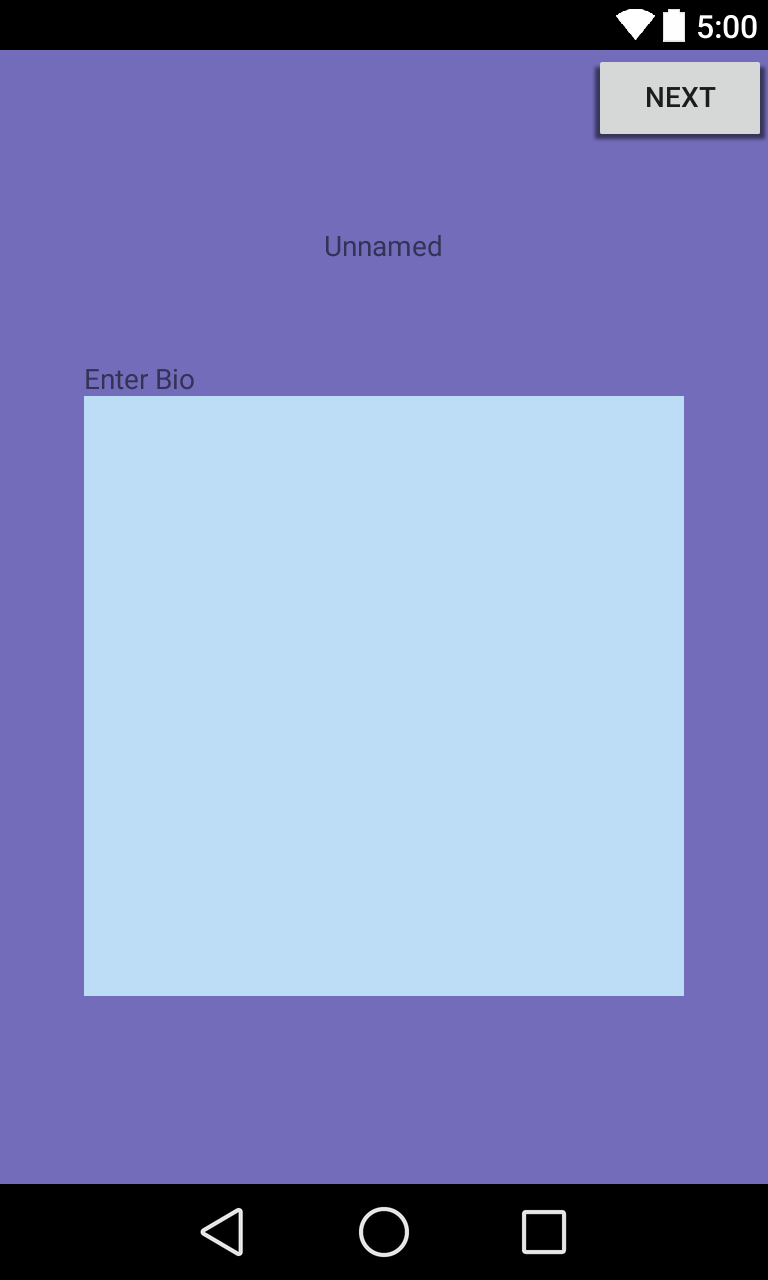
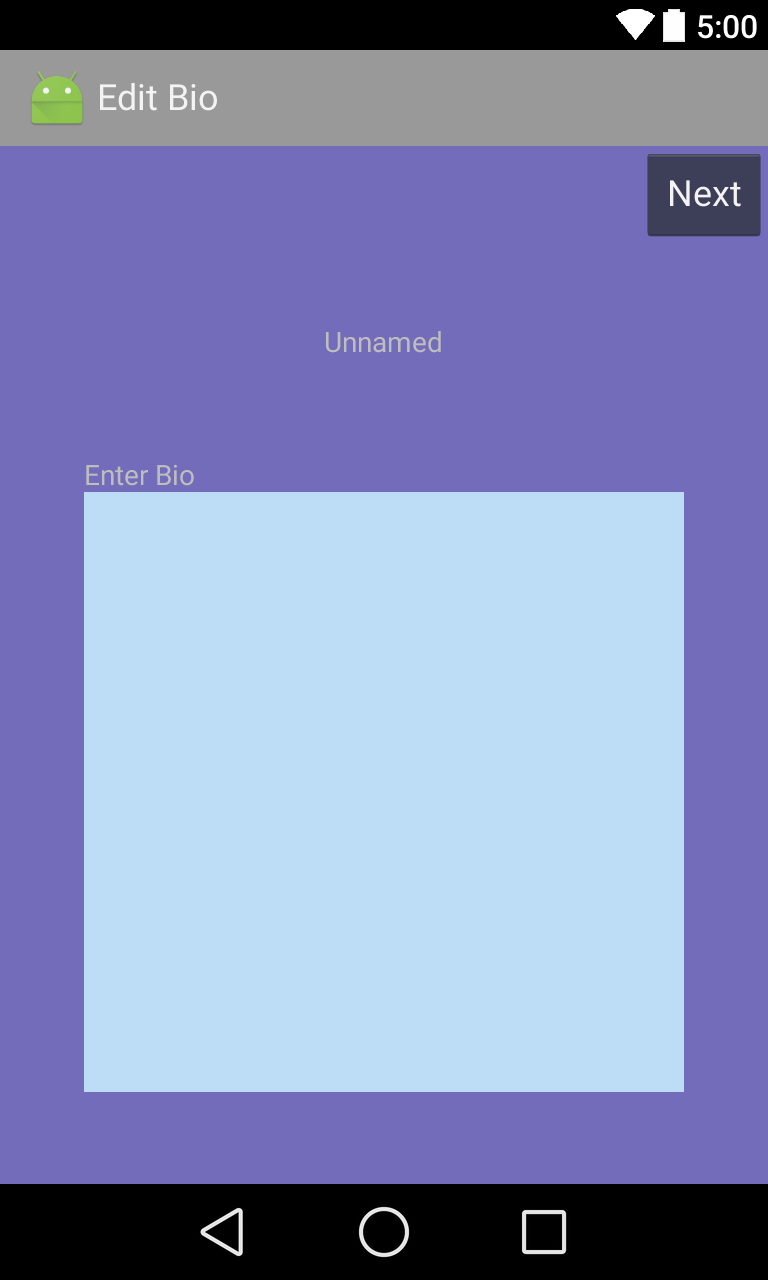
Action Bar keys implemented

diff --git a/app/src/main/java/slickstring/myapplication/Edit_Bio.java b/app/src/main/java/slickstring/myapplication/Edit_Bio.java
@@ -1,160 +1,50 @@
-package slickstring.myapplication;
 
-import slickstring.myapplication.util.SystemUiHider;
+    package slickstring.myapplication;
 
-import android.annotation.TargetApi;
-import android.app.Activity;
-import android.os.Build;
-import android.os.Bundle;
-import android.os.Handler;
-import android.view.MotionEvent;
-import android.view.View;
-
-
-/**
- * An example full-screen activity that shows and hides the system UI (i.e.
- * status bar and navigation/system bar) with user interaction.
- *
- * @see SystemUiHider
- */
-public class Edit_Bio extends Activity {
-    /**
-     * Whether or not the system UI should be auto-hidden after
-     * {@link #AUTO_HIDE_DELAY_MILLIS} milliseconds.
-     */
-    private static final boolean AUTO_HIDE = true;
-
-    /**
-     * If {@link #AUTO_HIDE} is set, the number of milliseconds to wait after
-     * user interaction before hiding the system UI.
-     */
-    private static final int AUTO_HIDE_DELAY_MILLIS = 3000;
-
-    /**
-     * If set, will toggle the system UI visibility upon interaction. Otherwise,
-     * will show the system UI visibility upon interaction.
-     */
-    private static final boolean TOGGLE_ON_CLICK = true;
-
-    /**
-     * The flags to pass to {@link SystemUiHider#getInstance}.
-     */
-    private static final int HIDER_FLAGS = SystemUiHider.FLAG_HIDE_NAVIGATION;
-
-    /**
-     * The instance of the {@link SystemUiHider} for this activity.
-     */
-    private SystemUiHider mSystemUiHider;
-
-    @Override
-    protected void onCreate(Bundle savedInstanceState) {
-        super.onCreate(savedInstanceState);
-
-        setContentView(R.layout.activity_edit__bio);
-
-        final View controlsView = findViewById(R.id.fullscreen_content_controls);
-        final View contentView = findViewById(R.id.fullscreen_content);
-
-        // Set up an instance of SystemUiHider to control the system UI for
-        // this activity.
-        mSystemUiHider = SystemUiHider.getInstance(this, contentView, HIDER_FLAGS);
-        mSystemUiHider.setup();
-        mSystemUiHider
-                .setOnVisibilityChangeListener(new SystemUiHider.OnVisibilityChangeListener() {
-                    // Cached values.
-                    int mControlsHeight;
-                    int mShortAnimTime;
-
-                    @Override
-                    @TargetApi(Build.VERSION_CODES.HONEYCOMB_MR2)
-                    public void onVisibilityChange(boolean visible) {
-                        if (Build.VERSION.SDK_INT >= Build.VERSION_CODES.HONEYCOMB_MR2) {
-                            // If the ViewPropertyAnimator API is available
-                            // (Honeycomb MR2 and later), use it to animate the
-                            // in-layout UI controls at the bottom of the
-                            // screen.
-                            if (mControlsHeight == 0) {
-                                mControlsHeight = controlsView.getHeight();
-                            }
-                            if (mShortAnimTime == 0) {
-                                mShortAnimTime = getResources().getInteger(
-                                        android.R.integer.config_shortAnimTime);
-                            }
-                            controlsView.animate()
-                                    .translationY(visible ? 0 : mControlsHeight)
-                                    .setDuration(mShortAnimTime);
-                        } else {
-                            // If the ViewPropertyAnimator APIs aren't
-                            // available, simply show or hide the in-layout UI
-                            // controls.
-                            controlsView.setVisibility(visible ? View.VISIBLE : View.GONE);
-                        }
-
-                        if (visible && AUTO_HIDE) {
-                            // Schedule a hide().
-                            delayedHide(AUTO_HIDE_DELAY_MILLIS);
-                        }
-                    }
-                });
-
-        // Set up the user interaction to manually show or hide the system UI.
-        contentView.setOnClickListener(new View.OnClickListener() {
-            @Override
-            public void onClick(View view) {
-                if (TOGGLE_ON_CLICK) {
-                    mSystemUiHider.toggle();
-                } else {
-                    mSystemUiHider.show();
-                }
-            }
-        });
-
-        // Upon interacting with UI controls, delay any scheduled hide()
-        // operations to prevent the jarring behavior of controls going away
-        // while interacting with the UI.
-        findViewById(R.id.dummy_button).setOnTouchListener(mDelayHideTouchListener);
-    }
-
-    @Override
-    protected void onPostCreate(Bundle savedInstanceState) {
-        super.onPostCreate(savedInstanceState);
-
-        // Trigger the initial hide() shortly after the activity has been
-        // created, to briefly hint to the user that UI controls
-        // are available.
-        delayedHide(100);
-    }
+    import android.app.Activity;
+    import android.content.Intent;
+    import android.support.v7.app.ActionBarActivity;
+    import android.os.Bundle;
+    import android.view.Menu;
+    import android.view.MenuItem;
+    import android.view.View;
+    import android.widget.EditText;
 
 
-    /**
-     * Touch listener to use for in-layout UI controls to delay hiding the
-     * system UI. This is to prevent the jarring behavior of controls going away
-     * while interacting with activity UI.
-     */
-    View.OnTouchListener mDelayHideTouchListener = new View.OnTouchListener() {
+    public class edit_bio extends Activity {
+
+
         @Override
-        public boolean onTouch(View view, MotionEvent motionEvent) {
-            if (AUTO_HIDE) {
-                delayedHide(AUTO_HIDE_DELAY_MILLIS);
-            }
-            return false;
+        protected void onCreate(Bundle savedInstanceState) {
+            super.onCreate(savedInstanceState);
+            setContentView(R.layout.activity_edit__bio);
         }
-    };
 
-    Handler mHideHandler = new Handler();
-    Runnable mHideRunnable = new Runnable() {
+
         @Override
-        public void run() {
-            mSystemUiHider.hide();
+        public boolean onCreateOptionsMenu(Menu menu) {
+            // Inflate the menu; this adds items to the action bar if it is present.
+            getMenuInflater().inflate(R.menu.menu_edit_bio, menu);
+            return true;
         }
-    };
 
-    /**
-     * Schedules a call to hide() in [delay] milliseconds, canceling any
-     * previously scheduled calls.
-     */
-    private void delayedHide(int delayMillis) {
-        mHideHandler.removeCallbacks(mHideRunnable);
-        mHideHandler.postDelayed(mHideRunnable, delayMillis);
-    }
+        @Override
+        public boolean onOptionsItemSelected(MenuItem item) {
+            // Handle action bar item clicks here. The action bar will
+            // automatically handle clicks on the Home/Up button, so long
+            // as you specify a parent activity in AndroidManifest.xml.
+            int id = item.getItemId();
+
+            switch (item.getItemId()) {
+                case R.id.action_save:
+                    saveProfile();
+            }
+
+            return super.onOptionsItemSelected(item);
+        }
+
+        public void saveProfile(){
+//            startActivity( new Intent(this, edit_bio.class));
+        }
+
 }

diff --git a/app/src/main/java/slickstring/myapplication/role_select.java b/app/src/main/java/slickstring/myapplication/role_select.java
@@ -1,5 +1,6 @@
 package slickstring.myapplication;
 
+import android.content.Intent;
 import android.support.v7.app.ActionBarActivity;
 import android.os.Bundle;
 import android.view.Menu;
@@ -22,18 +23,22 @@ public class role_select extends ActionBarActivity {
         return true;
     }
 
-    @Override
-    public boolean onOptionsItemSelected(MenuItem item) {
-        // Handle action bar item clicks here. The action bar will
-        // automatically handle clicks on the Home/Up button, so long
-        // as you specify a parent activity in AndroidManifest.xml.
-        int id = item.getItemId();
+        @Override
+        public boolean onOptionsItemSelected(MenuItem item) {
+            // Handle action bar item clicks here. The action bar will
+            // automatically handle clicks on the Home/Up button, so long
+            // as you specify a parent activity in AndroidManifest.xml.
+            int id = item.getItemId();
 
-        //noinspection SimplifiableIfStatement
-        if (id == R.id.action_settings) {
-            return true;
+            switch (item.getItemId()) {
+                case R.id.action_profile:
+                    openProfile();
+            }
+
+            return super.onOptionsItemSelected(item);
         }
 
-        return super.onOptionsItemSelected(item);
+    public void openProfile(){
+        startActivity( new Intent(this, edit_bio.class));
     }
 }

diff --git a/app/src/main/java/slickstring/myapplication/Login.java b/app/src/main/java/slickstring/myapplication/Login.java
@@ -1,12 +1,18 @@
 package slickstring.myapplication;
 
+import android.app.Activity;
+import android.content.Intent;
 import android.support.v7.app.ActionBarActivity;
 import android.os.Bundle;
 import android.view.Menu;
 import android.view.MenuItem;
+import android.view.View;
+import android.widget.EditText;
 
 
-public class Login extends ActionBarActivity {
+public class Login extends Activity {
+
+    public final static String EXTRA_MESSAGE = "slickstring.myapplication.email";
 
     @Override
     protected void onCreate(Bundle savedInstanceState) {
@@ -29,11 +35,14 @@ public class Login extends ActionBarActivity {
         // as you specify a parent activity in AndroidManifest.xml.
         int id = item.getItemId();
 
-        //noinspection SimplifiableIfStatement
-        if (id == R.id.action_settings) {
-            return true;
-        }
-
         return super.onOptionsItemSelected(item);
+    }
+
+    public void verifyLogin(View view){
+        Intent intent = new Intent(this, edit_bio.class);
+        EditText editText = (EditText) findViewById(R.id.emailInput);
+        String email = editText.getText().toString();
+        intent.putExtra(EXTRA_MESSAGE, email);
+        startActivity(intent);
     }
 }

diff --git a/app/src/main/java/slickstring/myapplication/Waiting.java b/app/src/main/java/slickstring/myapplication/Waiting.java
@@ -3,6 +3,7 @@ package slickstring.myapplication;
 import android.support.v7.app.ActionBarActivity;
 import android.os.Bundle;
 import android.view.Menu;
+import android.view.MenuInflater;
 import android.view.MenuItem;
 
 
@@ -13,7 +14,6 @@ public class Waiting extends ActionBarActivity {
         super.onCreate(savedInstanceState);
         setContentView(R.layout.activity_waiting);
     }
-
 
     @Override
     public boolean onCreateOptionsMenu(Menu menu) {
@@ -29,10 +29,6 @@ public class Waiting extends ActionBarActivity {
         // as you specify a parent activity in AndroidManifest.xml.
         int id = item.getItemId();
 
-        //noinspection SimplifiableIfStatement
-        if (id == R.id.action_settings) {
-            return true;
-        }
 
         return super.onOptionsItemSelected(item);
     }
